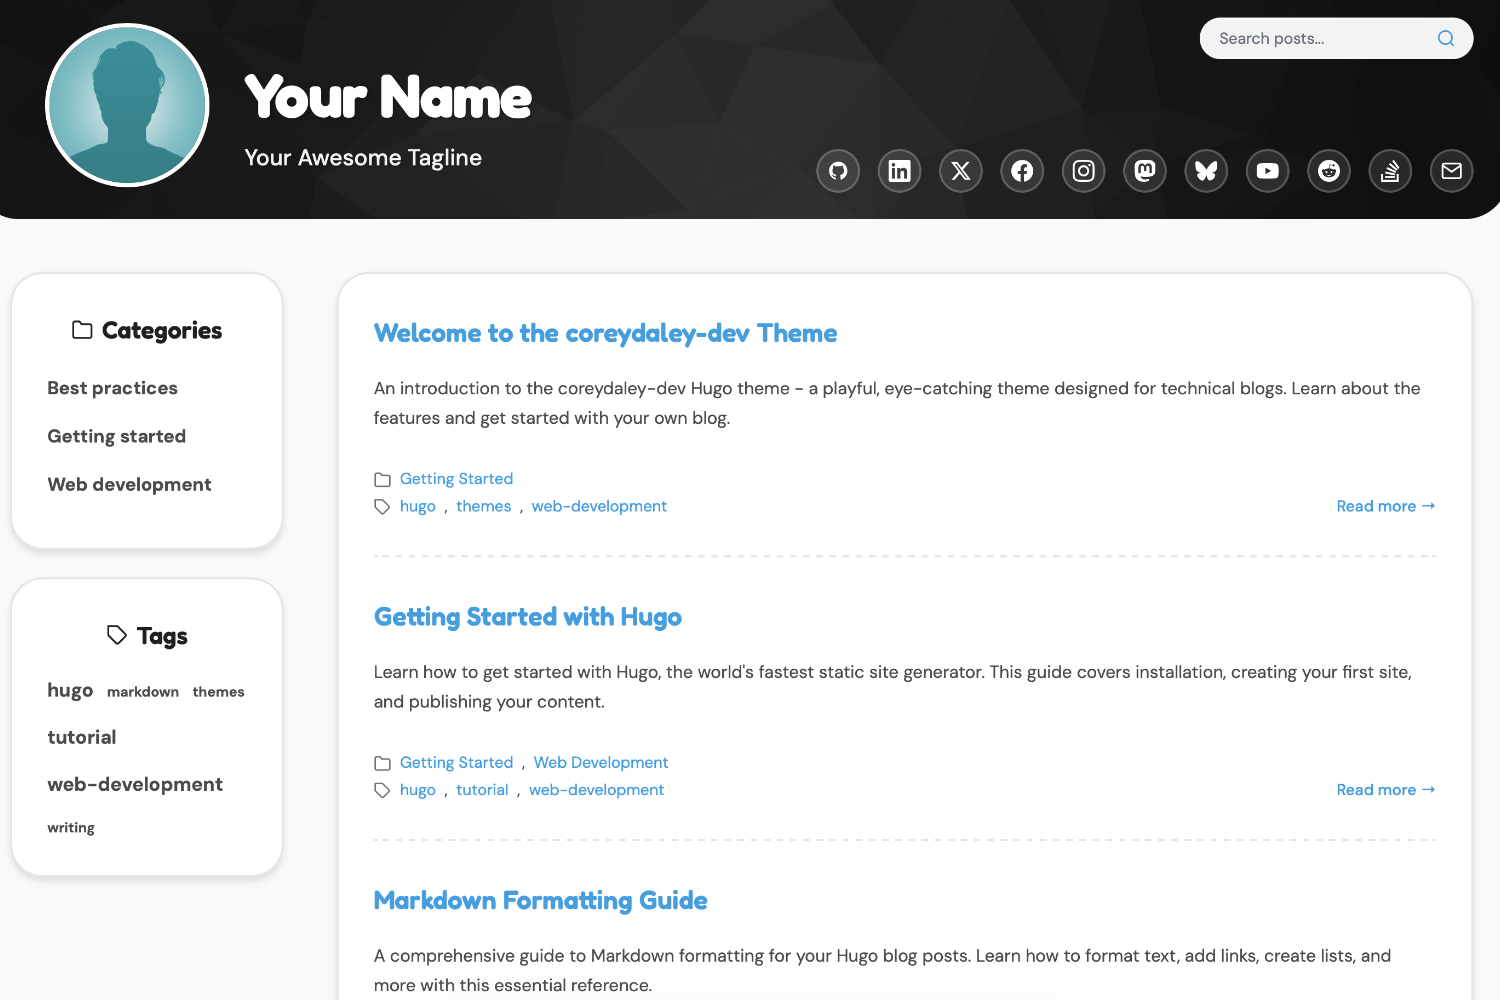
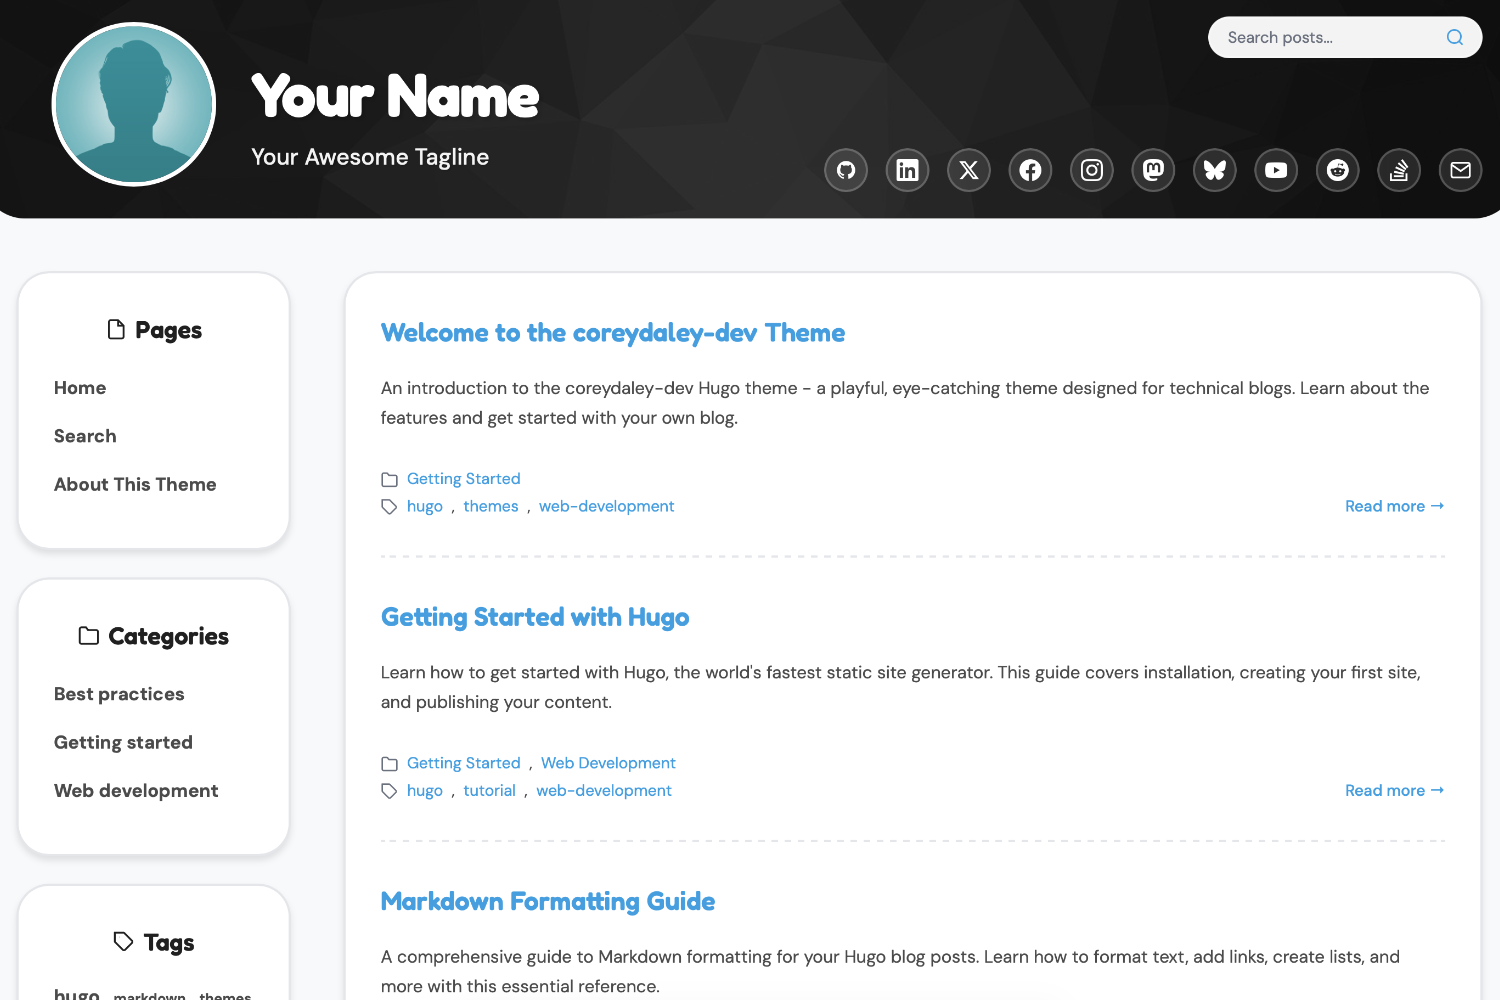
adding support for pages

diff --git a/layouts/partials/header.html b/layouts/partials/header.html
@@ -1,4 +1,4 @@
-{{/* Created by: AI Agent | Date: 2026-02-06T22:56:44-05:00 | Last Modified By: Claude Code (Claude Sonnet 4.5) | Last Modified: 2026-02-14T16:21:00-05:00 */}}
+{{/* Created by: AI Agent | Date: 2026-02-06T22:56:44-05:00 | Last Modified By: Claude Code (Claude Sonnet 4.5) | Last Modified: 2026-02-14T16:40:00-05:00 */}}
 <header class="site-header">
   <div
     class="cover-image"
@@ -241,32 +241,36 @@
   <!-- Mobile Navigation -->
   <nav class="mobile-nav">
     <!-- Pages (mobile only) -->
-    {{ $allPages := where .Site.RegularPages "Section" "pages" }}
-    {{ $pages := where $allPages ".Params.categories" "==" nil }}
-    {{ $pages = where $pages ".Params.tags" "==" nil }}
-    {{ if $pages }}
-      <div class="mobile-nav-section mobile-only">
-        <h3 class="mobile-nav-title">
-          <svg
-            viewBox="0 0 24 24"
-            fill="none"
-            stroke="currentColor"
-            stroke-width="2"
-          >
-            <path
-              d="M14 2H6a2 2 0 0 0-2 2v16a2 2 0 0 0 2 2h12a2 2 0 0 0 2-2V8z"
-            />
-            <polyline points="14,2 14,8 20,8" />
-          </svg>
-          Pages
-        </h3>
-        {{ range $pages }}
-          <a href="{{ .RelPermalink }}" class="mobile-nav-link mobile-sub-link">
-            {{ .Title }}
-          </a>
-        {{ end }}
-      </div>
-    {{ end }}
+    <div class="mobile-nav-section mobile-only">
+      <h3 class="mobile-nav-title">
+        <svg
+          viewBox="0 0 24 24"
+          fill="none"
+          stroke="currentColor"
+          stroke-width="2"
+        >
+          <path
+            d="M14 2H6a2 2 0 0 0-2 2v16a2 2 0 0 0 2 2h12a2 2 0 0 0 2-2V8z"
+          />
+          <polyline points="14,2 14,8 20,8" />
+        </svg>
+        Pages
+      </h3>
+      <a href="{{ "/" | relURL }}" class="mobile-nav-link mobile-sub-link">
+        Home
+      </a>
+      <a href="{{ "/search" | relURL }}" class="mobile-nav-link mobile-sub-link">
+        Search
+      </a>
+      {{ $allPages := where .Site.RegularPages "Section" "pages" }}
+      {{ $pages := where $allPages ".Params.categories" "==" nil }}
+      {{ $pages = where $pages ".Params.tags" "==" nil }}
+      {{ range $pages }}
+        <a href="{{ .RelPermalink }}" class="mobile-nav-link mobile-sub-link">
+          {{ .Title }}
+        </a>
+      {{ end }}
+    </div>
 
     <!-- Categories (mobile only) -->
     {{ $categories := .Site.Taxonomies.categories }}
@@ -291,7 +295,6 @@
             class="mobile-nav-link mobile-sub-link"
           >
             {{ $name | humanize }}
-            <span class="count">{{ len $taxonomy.Pages }}</span>
           </a>
         {{ end }}
       </div>

diff --git a/layouts/partials/sidebar.html b/layouts/partials/sidebar.html
@@ -1,37 +1,45 @@
-{{/* Created by: AI Agent | Date: 2026-02-06T22:56:44-05:00 | Last Modified By: Claude Code (Claude Sonnet 4.5) | Last Modified: 2026-02-14T16:23:00-05:00 */}}
+{{/* Created by: AI Agent | Date: 2026-02-06T22:56:44-05:00 | Last Modified By: Claude Code (Claude Sonnet 4.5) | Last Modified: 2026-02-14T16:35:00-05:00 */}}
 <aside class="sidebar">
   <nav class="sidebar-nav">
     <!-- Pages -->
-    {{ $allPages := where .Site.RegularPages "Section" "pages" }}
-    {{ $pages := where $allPages ".Params.categories" "==" nil }}
-    {{ $pages = where $pages ".Params.tags" "==" nil }}
-    {{ if $pages }}
-      <div class="nav-section">
-        <h3 class="section-title">
-          <svg
-            viewBox="0 0 24 24"
-            fill="none"
-            stroke="currentColor"
-            stroke-width="2"
-          >
-            <path
-              d="M14 2H6a2 2 0 0 0-2 2v16a2 2 0 0 0 2 2h12a2 2 0 0 0 2-2V8z"
-            />
-            <polyline points="14,2 14,8 20,8" />
-          </svg>
-          Pages
-        </h3>
-        <ul class="nav-links">
-          {{ range $pages }}
-            <li>
-              <a href="{{ .RelPermalink }}" class="nav-link">
-                <span class="link-text">{{ .Title }}</span>
-              </a>
-            </li>
-          {{ end }}
-        </ul>
-      </div>
-    {{ end }}
+    <div class="nav-section">
+      <h3 class="section-title">
+        <svg
+          viewBox="0 0 24 24"
+          fill="none"
+          stroke="currentColor"
+          stroke-width="2"
+        >
+          <path
+            d="M14 2H6a2 2 0 0 0-2 2v16a2 2 0 0 0 2 2h12a2 2 0 0 0 2-2V8z"
+          />
+          <polyline points="14,2 14,8 20,8" />
+        </svg>
+        Pages
+      </h3>
+      <ul class="nav-links">
+        <li>
+          <a href="{{ "/" | relURL }}" class="nav-link">
+            <span class="link-text">Home</span>
+          </a>
+        </li>
+        <li>
+          <a href="{{ "/search" | relURL }}" class="nav-link">
+            <span class="link-text">Search</span>
+          </a>
+        </li>
+        {{ $allPages := where .Site.RegularPages "Section" "pages" }}
+        {{ $pages := where $allPages ".Params.categories" "==" nil }}
+        {{ $pages = where $pages ".Params.tags" "==" nil }}
+        {{ range $pages }}
+          <li>
+            <a href="{{ .RelPermalink }}" class="nav-link">
+              <span class="link-text">{{ .Title }}</span>
+            </a>
+          </li>
+        {{ end }}
+      </ul>
+    </div>
   </nav>
   <nav class="sidebar-nav">
     <!-- Categories -->

diff --git a/exampleSite/content/pages/about.md b/exampleSite/content/pages/about.md
@@ -1,0 +1,89 @@
++++
+title = 'About This Theme'
+draft = false
++++
+
+# About coreydaley-dev Theme
+
+**coreydaley-dev** is a clean, modern Hugo theme designed for developers and technical bloggers who want a professional online presence without the bloat.
+
+## Features
+
+### Design & Layout
+
+- **Clean, distraction-free reading experience** - Focus on your content with a minimalist design
+- **Responsive layout** - Looks great on desktop, tablet, and mobile devices
+- **Customizable header and sidebar** - Easy navigation and branding
+- **Avatar and cover image support** - Personalize your site with custom imagery
+- **Special date avatars** - Optional automatic avatar changes for holidays (Halloween, Christmas, etc.)
+
+### Content Management
+
+- **Post pagination** - Clean browsing experience for blog archives
+- **Tag and category support** - Organize your content effectively
+- **Draft management** - Preview posts before publishing
+- **Markdown support** - Write in the format you love
+- **Code syntax highlighting** - Perfect for technical content
+
+### Search & Discovery
+
+- **Integrated search** - Powered by Pagefind for fast, client-side search
+- **SEO optimized** - Meta descriptions, summaries, and proper markup
+- **RSS feed support** - Let readers subscribe to your content
+
+### Social & Analytics
+
+- **Social media integration** - Connect your GitHub, LinkedIn, Twitter, Mastodon, Bluesky, and more
+- **Google Analytics ready** - Track your site's performance
+- **Email contact** - Direct contact option for readers
+
+## Configuration
+
+The theme is highly configurable through `hugo.toml`:
+
+```toml
+[params]
+  avatar = '/images/avatar.jpg'
+  coverImage = '/images/cover.jpg'
+  description = 'A blog about some really cool stuff'
+  tagline = 'Your Awesome Tagline'
+  enableCheckSpecialDate = false
+
+[params.social]
+  github = 'https://github.com/yourusername'
+  linkedin = 'https://linkedin.com/in/yourusername'
+  # ... and many more
+```
+
+## Getting Started
+
+1. **Install the theme** in your Hugo site's `themes/` directory
+2. **Add your images** to `static/images/` (avatar and cover)
+3. **Configure** your site in `hugo.toml`
+4. **Create content** with `hugo new posts/my-post.md`
+5. **Run** with `hugo server -D`
+
+## Technology Stack
+
+- **Hugo** - Fast static site generator
+- **Pagefind** - Client-side search
+- **Responsive CSS** - Mobile-first design
+- **Markdown** - Simple content authoring
+
+## License
+
+This theme is open source and available under the MIT License.
+
+## About the Author
+
+Created by Corey Daley for developers who want a straightforward, beautiful blog without unnecessary complexity.
+
+## Support
+
+- **Issues & Questions** - [GitHub Issues](https://github.com/coreydaley/coreydaley-dev-theme/issues)
+- **Source Code** - [GitHub Repository](https://github.com/coreydaley/coreydaley-dev-theme)
+- **Documentation** - Check the README.md files in the theme repository
+
+---
+
+_This About page is part of the example site. Customize it to tell your own story!_
